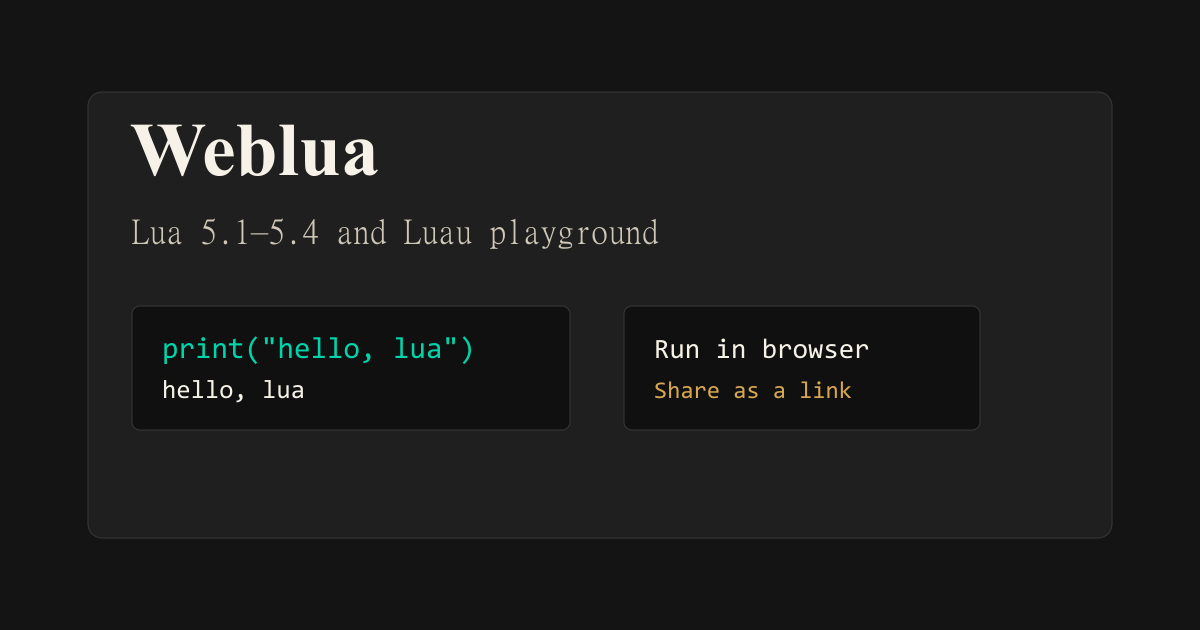
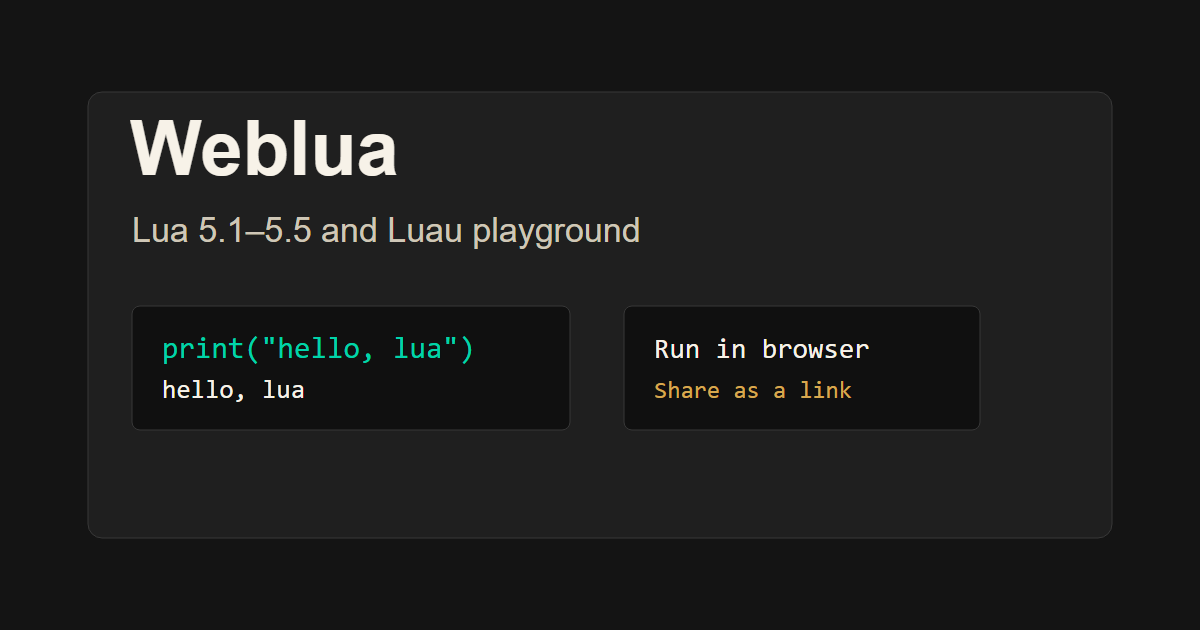
Update Lua version references to 5.1–5.5
Update version strings across OG metadata, web manifest, build scripts, and test documentation to reflect Lua 5.5 support. This includes updating the playground description, OG image text, web manifest, and test comments to correctly indicate the supported Lua versions.

diff --git a/src/workers/projectRuntime.execution.test.ts b/src/workers/projectRuntime.execution.test.ts
@@ -243,7 +243,7 @@ describe.each(luaFlavors)("%s end-to-end execution", (flavor) => {
     );
 
     expect(result.status).toBe("ok");
-    // Lua 5.4 delivers each print as one chunk; 5.1-5.3 stream stdout bytes and
+    // Lua 5.4 delivers each print as one chunk; 5.1-5.3 and 5.5 stream stdout bytes and
     // therefore split the multi-line remainder at its newline.
     expect(stdoutOf(result).join("\n")).toBe("first\nsecond\nthird");
   });
